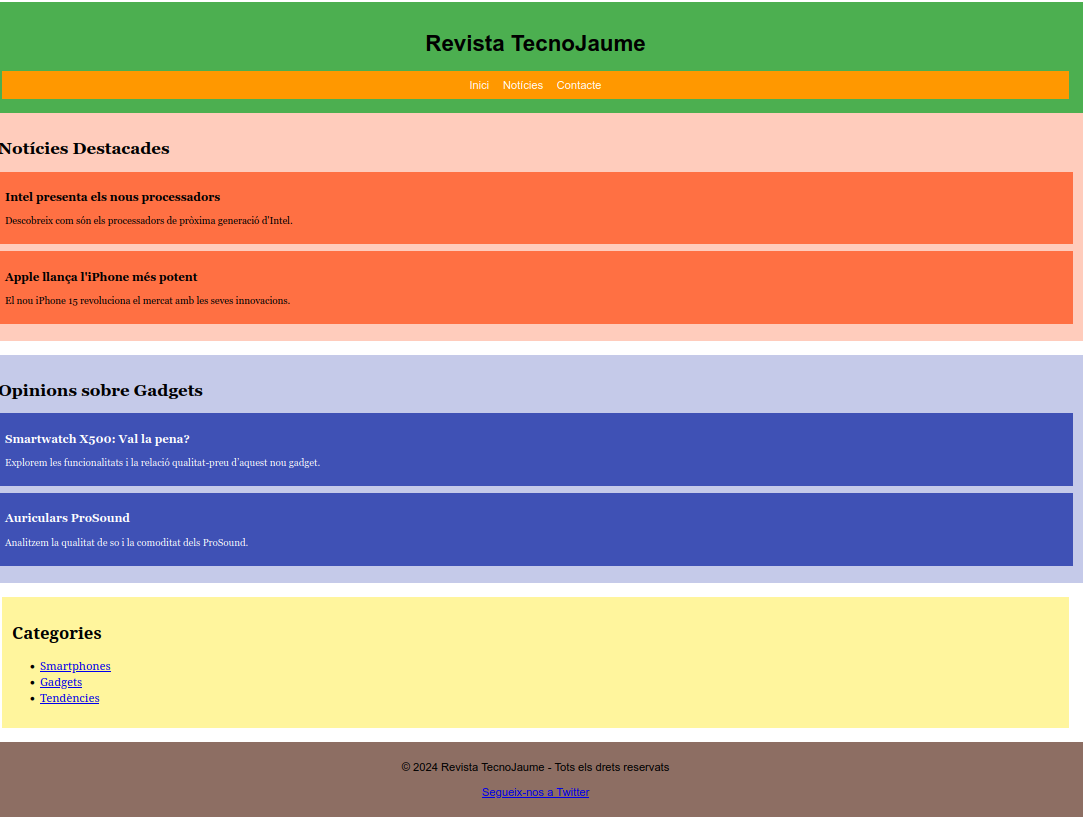
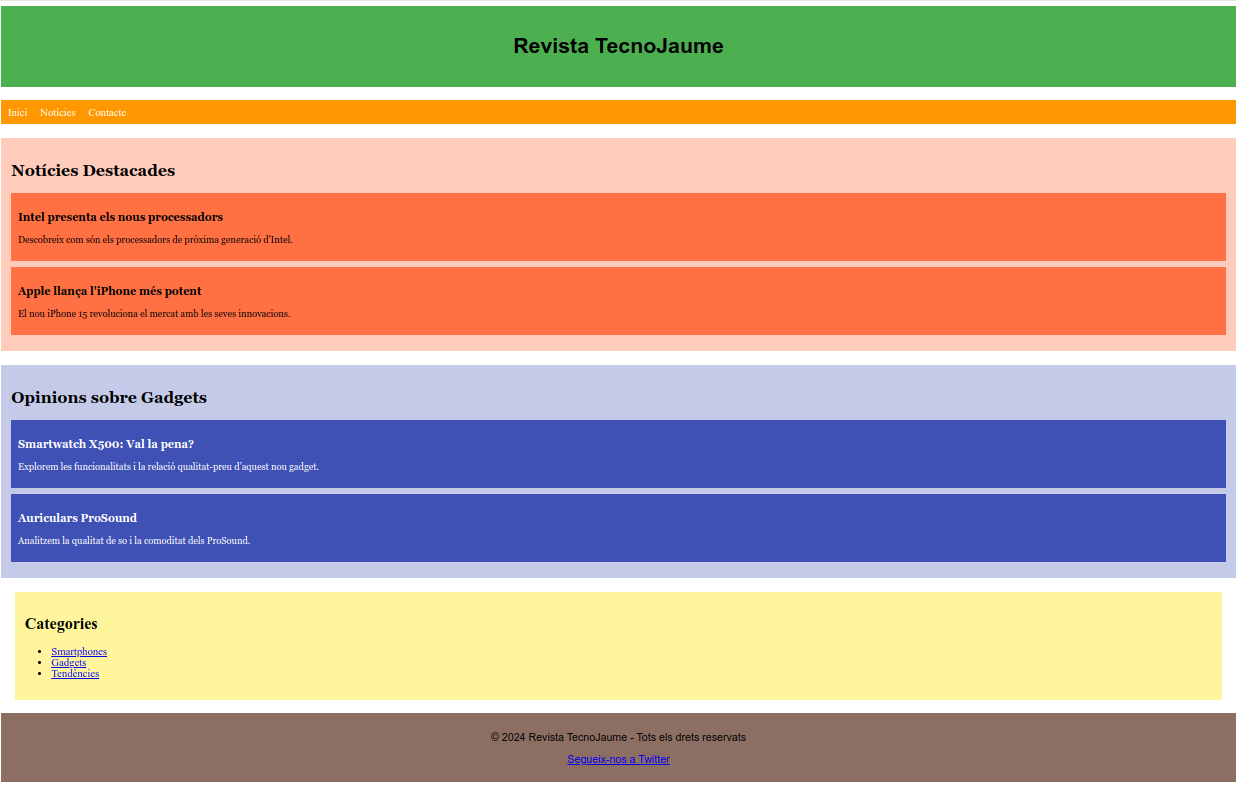
Refactor section headings in 2.4.3 Exercicis.md for consistency and clarity

diff --git a/2.HTML/2.4.3 Exercicis.md b/2.HTML/2.4.3 Exercicis.md
@@ -76,8 +76,6 @@ Imagina que estàs creant la pàgina inicial d'una **revista digital sobre tecno
 
 
 
-### **Enunciat**
-
 A la pagina anterior anem a aplicar **paddings**, **marges** i **estils tipogràfics** per millorar-ne l’aspecte visual. T
 
 En cada etiqueta has de posar l'atribut `style` amb els estils corresponents. A continuació, es mostren els estils que s'han de configurar per a cada part de la pàgina.
@@ -86,20 +84,22 @@ Recorda que l'estructura de cada atribut `style` ha de ser: `style="proprietat: 
 
 ---
 
-#### **1. Capçalera (`<header>` i `<nav>`):**
+### **1. Capçalera (`<header>` i `<nav>`):**
 - **`<header>`:**
   - Afegir un espai intern: `padding: 20px`.
   - Centrar el text: `text-align: center`.
   - Configurar la tipografia: `font-family: Arial, sans-serif`.
+  - Separació entre seccions: `margin-bottom: 20px`.
 
 - **`<nav>`:**
   - Afegir espais interns als enllaços: `padding: 10px`.
+  - Separació entre seccions: `margin-bottom: 20px`.
   - Configurar els enllaços perquè tinguin text blanc i no estiguin subratllats: `color: white; text-decoration: none`.
   - Separar els enllaços amb un marge dret: `margin-right: 15px`.
 
 ---
 
-#### **2. Seccions del cos principal (`<section>` i `<article>`):**
+### **2. Seccions del cos principal (`<section>` i `<article>`):**
 - **`<section>`:**
   - Espai intern: `padding: 15px`.
   - Separació entre seccions: `margin-bottom: 20px`.
@@ -112,14 +112,14 @@ Recorda que l'estructura de cada atribut `style` ha de ser: `style="proprietat: 
 
 ---
 
-#### **3. Barra lateral (`<aside>`):**
+### **3. Barra lateral (`<aside>`):**
 - Espai intern: `padding: 15px`.
 - Separació del contingut de la pàgina principal: `margin: 20px`.
 - Alineació del contingut a l'esquerra (sense centrat): **No apliquis `text-align: center` o alineacions centrades**.
 
 ---
 
-#### **4. Peu de pàgina (`<footer>`):**
+### **4. Peu de pàgina (`<footer>`):**
 - Espai intern: `padding: 10px`.
 - Centrar el text: `text-align: center`.
 - Tipografia: `font-family: Arial, sans-serif`.
